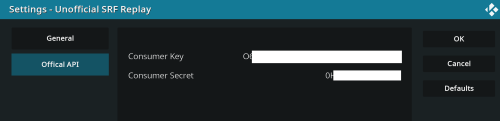
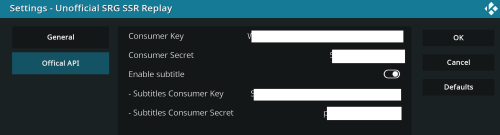
Add official subtitles API & remove temp folder

diff --git a/plugin.video.srgssr_ch_replay/addon.py b/plugin.video.srgssr_ch_replay/addon.py
@@ -31,9 +31,6 @@ xbmcplugin.setContent(pluginhandle, "tvshows")
 addon_work_folder = xbmcvfs.translatePath("special://userdata/addon_data/" + addonID)
 if not os.path.isdir(addon_work_folder):
     os.mkdir(addon_work_folder)
-addon_work_folder_subs = addon_work_folder + '/temp_subtitles'    
-if not os.path.isdir(addon_work_folder_subs):
-    os.mkdir(addon_work_folder_subs)
 numberOfEpisodesPerPage = int(addon.getSetting("numberOfShowsPerPage"))
 subtitlesEnabled = addon.getSetting("subtitlesEnabled") == "true"
 consumerKey = addon.getSetting("consumerKey")
@@ -109,8 +106,8 @@ def list_episodes(channel, showid, showbackground, pageNumber, numberOfEpisodes,
             title = show.get('title') + ' - ' + episode.get('title')
             desc = episode.get('description')
             pubdate = episode.get('publishedDate')
+            url = episode.get('id')
             media = episode.get('mediaList')[0]
-            url = media.get('id')
             urn = media.get('urn')
             picture = media.get('imageUrl')
             length = int(media.get('duration', 0)) / 1000 / 60
@@ -138,16 +135,21 @@ def _srg_api_get_simple(path, *, query=None, bearer, exp_code=None):
     return _http_request(SRG_API_HOST, 'GET', path, query, headers, None, exp_code)
 
 
-def _srg_api_auth_token():
-    token_ts = addon.getSetting('srgssrTokenTS')
+def _srg_api_auth_token(tokenPrefix):
+    token_ts = addon.getSetting(f'srgssr{tokenPrefix}TokenTS')
     if token_ts:
         delta_ts = datetime.datetime.utcnow() - datetime.datetime.fromisoformat(token_ts)
-        token = addon.getSetting('srgssrToken')
+        token = addon.getSetting(f'srgssr{tokenPrefix}Token')
         if delta_ts < datetime.timedelta(days=25) and token:
             return token
 
     query = {"grant_type": "client_credentials"}
-    headers = {"Authorization": "Basic " + str(base64.b64encode(f"{consumerKey}:{consumerSecret}".encode("utf-8")), "utf-8")}
+    key = addon.getSetting(f"consumerKey{tokenPrefix}")
+    secret = addon.getSetting(f"consumerSecret{tokenPrefix}")
+    if key == '' or secret == '':
+        xbmcgui.Dialog().ok(tr(30006), tr(30020))
+        addon.openSettings()
+    headers = {"Authorization": "Basic " + str(base64.b64encode(f"{key}:{secret}".encode("utf-8")), "utf-8")}
     try:
         r = _http_request(SRG_API_HOST, 'POST', "/oauth/v1/accesstoken", query=query, headers=headers, exp_code=200)
     except UnexpectedStatusCodeException as e:
@@ -155,14 +157,14 @@ def _srg_api_auth_token():
             xbmc.log(f"Authentication failed -> No API token")
         raise e
     access_token = r.json()["access_token"]
-    addon.setSetting('srgssrToken', access_token)
-    addon.setSetting('srgssrTokenTS', datetime.datetime.utcnow().isoformat())
+    addon.setSetting(f'srgssr{tokenPrefix}Token', access_token)
+    addon.setSetting(f'srgssr{tokenPrefix}TokenTS', datetime.datetime.utcnow().isoformat())
     return access_token
 
 
-def _srg_get(path, query):
+def _srg_get(path, query, tokenPrefix = ""):
     def _get_with_token(path, query):
-        token = _srg_api_auth_token()
+        token = _srg_api_auth_token(tokenPrefix)
         if token:
             r = _srg_api_get_simple(path, bearer=token, query=query, exp_code=[200, 203])
             return r.json()
@@ -173,8 +175,8 @@ def _srg_get(path, query):
     except UnexpectedStatusCodeException as e:
         if e.status_code in [401, 403]:
             # clear cached api token
-            addon.setSetting('srgssrToken', '')
-            addon.setSetting('srgssrTokenTS', '')
+            addon.setSetting(f'srgssr{tokenPrefix}Token', '')
+            addon.setSetting(f'srgssr{tokenPrefix}TokenTS', '')
             data = _get_with_token(path, query)
         else:
             raise e
@@ -199,11 +201,25 @@ def _http_request(host, method, path, query=None, headers={}, body_dict=None, ex
     return res
 
 
+def _addSubtitles(listitem, channel, showid):
+    if subtitlesEnabled:
+        path = f'/srgssr-play-subtitles/v1/identifier/urn:{channel}:episode:tv:{showid}'
+        subResponse = _srg_get(path, {}, 'Subtitles')
+        
+        subs = []
+        for asset in subResponse["data"]["assets"]:
+            if  asset is not None:
+                for sub in asset["hasSubtitling"]:
+                    subs.append(sub["identifier"])
+                    
+        listitem.setSubtitles(subs)
+            
+
 #####################################
 # Common methods
 #####################################
 
-def play_episode(urn):
+def play_episode(urn, channel, showid):
     """
     this method plays the selected episode
     """
@@ -218,24 +234,7 @@ def play_episode(urn):
         besturl = besturl + '?' + token
 
     listitem = xbmcgui.ListItem(path=besturl)
-    
-    #TODO https://github.com/ManBehindMooN/kodi_plugin_video_srgssr_ch_replay/issues/4
-    #delete addon_work_folder_subs directory content
-    if subtitlesEnabled:
-        path = f'/srgssr-play-subtitles/v1/identifier/{urn}'
-        query = {}
-        # rest call does not work yet
-        # => Error Contents: 500:{"fault":{"faultstring":"Invalid API call as no apiproduct match found","detail":{"errorcode":"keymanagement.service.InvalidAPICallAsNoApiProductMatchFound"}}}
-        # => UnexpectedStatusCodeException: 500:{"fault":{"faultstring":"Invalid API call as no apiproduct match found","detail":{"errorcode":"keymanagement.service.InvalidAPICallAsNoApiProductMatchFound"}}}
-        #subResponse = _srg_get(path, query=query)
-        #xbmc.log(f"subtitle response : {subResponse}")
-        
-        # check if there is/are subtitle(s) for this urn => https://developer.srgssr.ch/apis/srgssr-play-subtitles/docs       
-        # download in addon_work_folder_subs directory and (if needed) transform to srt format
-        # set meta data for subtitle => https://kodi.wiki/view/Audio-video_add-on_tutorial
-        listitem.addStreamInfo('subtitle', {'language': 'en'})
-        # https://alwinesch.github.io/group__python__xbmcgui__listitem.html
-        listitem.setSubtitles([addon_work_folder_subs + '/test.srt'])
+    _addSubtitles(listitem, channel, showid)
     xbmcplugin.setResolvedUrl(pluginhandle, True, listitem)
 
 
@@ -303,7 +302,7 @@ def _add_show(name, url, urn, mode, desc, iconimage, channel, numberOfEpisodes):
     liz = xbmcgui.ListItem(name)
     liz.setLabel2(desc)
     liz.setArt({'poster': iconimage, 'banner': iconimage, 'fanart': iconimage, 'thumb': iconimage})
-    #TODO setInfo is deprecated (see comments https://github.com/xbmc/repo-plugins/pull/3722)
+    #TODO setInfo might become deprecated (see comments https://github.com/xbmc/repo-plugins/pull/3722)
     liz.setInfo(type="Video", infoLabels={"title": name, "plot": desc, "plotoutline": desc})
     xbmcplugin.setContent(pluginhandle, 'tvshows')
     ok = xbmcplugin.addDirectoryItem(pluginhandle, url=directoryurl, listitem=liz, isFolder=True)
@@ -318,7 +317,7 @@ def _addLink(name, url, urn, mode, desc, iconurl, length, pubdate, showbackgroun
     liz = xbmcgui.ListItem(name)
     liz.setLabel2(desc)
     liz.setArt({'poster': iconurl, 'banner': iconurl, 'fanart': showbackground, 'thumb': iconurl})
-    #TODO setInfo is deprecated (see comments https://github.com/xbmc/repo-plugins/pull/3722)
+    #TODO setInfo might become deprecated (see comments https://github.com/xbmc/repo-plugins/pull/3722)
     liz.setInfo(type='Video', infoLabels={"Title": name, "Duration": length, "Plot": desc, "Aired": pubdate})
     liz.setProperty('IsPlayable', 'true')
     xbmcplugin.setContent(pluginhandle, 'episodes')
@@ -334,7 +333,7 @@ def _addnextpage(name, url, mode, desc, showbackground, pageNumber, channel, num
         "&page=" + str(pageNumber or "") + "&channel=" + str(channel) + "&numberOfEpisodes=" + str(numberOfEpisodes or "") + "&next=" + str(nextParam)
     liz = xbmcgui.ListItem(name)
     liz.setLabel2(desc)
-    #TODO setInfo is deprecated (see comments https://github.com/xbmc/repo-plugins/pull/3722)
+    #TODO setInfo might become deprecated (see comments https://github.com/xbmc/repo-plugins/pull/3722)
     liz.setInfo(type="Video", infoLabels={"title": name, "plot": desc, "plotoutline": desc})
     xbmcplugin.setContent(pluginhandle, 'episodes')
     ok = xbmcplugin.addDirectoryItem(pluginhandle, url=directoryurl, listitem=liz, isFolder=True)
@@ -373,7 +372,7 @@ if consumerKey == '' or consumerSecret == '':
     xbmcgui.Dialog().ok(tr(30012) + ' / ' + tr(30013), tr(30020))
     addon.openSettings()
 elif mode == 'playEpisode':
-    play_episode(urn)
+    play_episode(urn, channel, url)
 elif mode == 'listEpisodes':
     list_episodes(channel, url, showbackground, page, numberOfEpisodes, nextParam)
 elif mode == 'listTvShowsByLetter':

diff --git a/README.md b/README.md
@@ -2,7 +2,7 @@
 # <img src="plugin.video.srgssr_ch_replay/resources/icon.png" width="75" height="75" /> Unofficial SRG SSR Replay (another official Kodi add-on) 
 
 ## Add-on description
-The "Unofficial SRG SSR Replay" add-on implements the new [SRG SSR API](https://developer.srgssr.ch/apis) in order to support more channels and upcoming features. Right now all the official channels (SRF, SRF Info, RTS, RSI and RTR) are supported and these TV shows can be listed and streamed.
+The "Unofficial SRG SSR Replay" add-on implements the new [SRG SSR API](https://developer.srgssr.ch/apis) in order to support more channels and upcoming features. Right now all the official channels (SRF, SRF Info, RTS, RSI and RTR) are supported and these TV shows can be listed and streamed. Some shows might be regional locked and can only be played by Swiss IP addresses.
 
 Since version 3.0.0 the add-on is in the official [Kodi 19 (Matrix) repository](https://github.com/xbmc/repo-plugins/tree/matrix/plugin.video.srgssr_ch_replay) / [Kodi Add-on Page](https://kodi.tv/addons/matrix/plugin.video.srgssr_ch_replay).
 
@@ -11,6 +11,10 @@ This add-on has been cloned from the [Unofficial SRF Replay](https://kodi.tv/add
 
 ## Feedback for issues/improvements
 If you experience any problems or you have any suggestions, then please get in touch with us. The preferred way would be to [open an issue](https://github.com/ManBehindMooN/kodi_plugin_video_srgssr_ch_replay/issues) or [have a discussion](https://github.com/ManBehindMooN/kodi_plugin_video_srgssr_ch_replay/discussions) on our Github.
+
+### Known issues
+
+* **Subtitles in ttml format**: TV shows that only provide subtitles in the ttml format (mainly the RTS channel) do not work at all as this format is not (yet) supported by Kodi. If you are confronted by that issue and need a solution, let us know.
 
 ## Add-on Usage
 The add-on is self-explanatory but it can be used most efficiently in combination with these recommendations.
@@ -57,12 +61,15 @@ Since version 3.0.0 there is a new mandatory setting.
 
 This new setting allows to connect to the official SRG SSR API. This API is documented and supported by SRG SSR and is more stable on the long run and comes with some advantages (like all SRG SSR TV channels are supported; so check the upcoming new versions you might find some new features :-|).
 
-In order to use the new API a consumer key and secret has to be claimed by each user. Therefore an account needs to be opened and some information need to be provided. Yes really, no way around it. So read the next section carefully.
+In order to use the new API a consumer key and secret has to be claimed by each user and a separate one in order to enable optional subtitles. Therefore an account needs to be opened and some information need to be provided. Yes really, no way around it. So read the next section carefully.
 
-#### Register (private user)
+## Register account as private user
 *If you you are not a private user then please get in touch with the SRG SSR yourself. This registration process is described for private users only.*
 
+### Create account
 Open an account [at SRG SSR here](https://developer.srgssr.ch/user/register) and log in.
+
+### Register for the public API (mandatory)
 
 <kbd>![Register @ SRG SSR](pictures/new_api_register.png)</kbd>
 
@@ -86,7 +93,25 @@ Your consumer key and secret have been created.
 
 Now copy the consumer key and secret to Kodi add-on settings. *Just to let you know. Kodi supports remote apps for Android and iOS and makes it easier for some setups to enter text.*
  
-Ready to go you are! ~Yoda
+Ready to go you are! ~Yoda 
+
+...unless you want to enable the optional subtitles...
+
+### Register for subtitles API (optional)
+
+Go to "My Apps" and press "ADD A NEW APP". Yep, the blue on again.
+
+Then put in
+> subtitles_unofficial_srgssr_replay
+
+> https[]()://kodi.tv/addons/matrix/plugin.video.srgssr_ch_replay
+ 
+and chose
+ * SRGSSR-Play-Subtitles
+ 
+and press "Create App".
+
+Now copy the consumer key and secret for the subtitles to Kodi add-on settings.
 
 
 ## Installation

diff --git a/plugin.video.srgssr_ch_replay/README.md b/plugin.video.srgssr_ch_replay/README.md
@@ -3,7 +3,7 @@
 # Unofficial SRG SSR Replay
 
 ## Add-on description
-The "Unofficial SRG SSR Replay" add-on implements the new [SRG SSR API](https://developer.srgssr.ch/apis) in order to support more channels and upcoming features. Right now all the official channels (SRF, SRF Info, RTS, RSI and RTR) are supported and these TV shows can be listed and streamed.
+The "Unofficial SRG SSR Replay" add-on implements the new [SRG SSR API](https://developer.srgssr.ch/apis) in order to support more channels and upcoming features. Right now all the official channels (SRF, SRF Info, RTS, RSI and RTR) are supported and these TV shows can be listed and streamed. Some shows might be regional locked and can only be played by Swiss IP addresses.
 
 Since version 3.0.0 the add-on is in the official [Kodi 19 (Matrix) repository](https://github.com/xbmc/repo-plugins/tree/matrix/plugin.video.srgssr_ch_replay) / [Kodi Add-on Page](https://kodi.tv/addons/matrix/plugin.video.srgssr_ch_replay).
 
